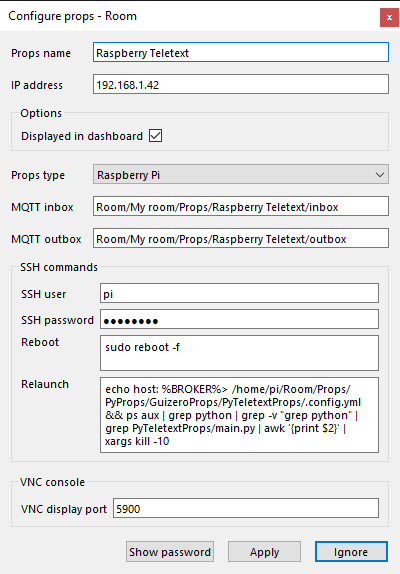
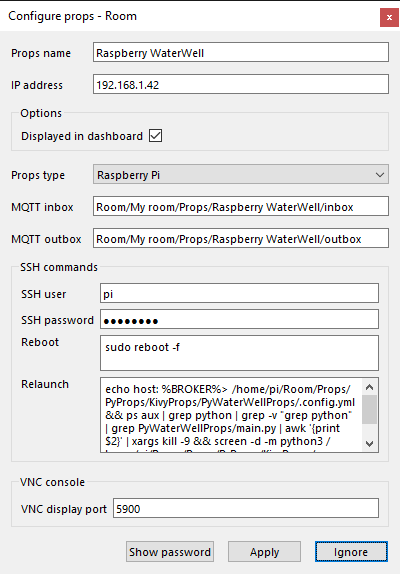
Update PyWaterWellProps

diff --git a/KivyProps/PyWaterWellProps/README.md b/KivyProps/PyWaterWellProps/README.md
@@ -1,6 +1,25 @@
 # Water  Well props (*PyWaterWellProps*)
+***Display messages with graphic effects in the Escape Room with a Raspberry Pi.***
 
-...
+This props listens to MQTT messages and then displays the text on an HDMI display and rings a bell.
+
+Messages are sent by the game master with the [Teletext Plugin](https://github.com/fauresystems/TeletextPlugin) or any application able to publish MQTT messages.
+
+The [Teletext Plugin](https://github.com/fauresystems/TeletextPlugin) can be used as a standalone applet, without the need of <a href="https://xcape.io/go/room" target="_blank">Room software</a>. If you use <a href="https://xcape.io/go/room" target="_blank">Room software</a>, you will find <a href="https://xcape.io/public/documentation/en/room/AddaRaspberrypropsTeletext.html" target="_blank">detailed installation help in the Room manual</a>.
+
+An advanced graphical effect is used to mimic water waves:
+```
+uniform vec2 ref_coords;
+
+vec4 effect(vec4 color, sampler2D texture, vec2 tex_coords, vec2 coords)
+{
+    vec2 distance = 0.025*(coords - ref_coords);
+    //float dist_mag = (distance.x*distance.x + distance.y*distance.y);
+    float dist_mag = (distance.x*distance.x / 4.0+ distance.y*distance.y / 4.0);
+    vec3 multiplier = vec3(abs(sin(dist_mag - time)));
+    return vec4(multiplier * color.xyz, 1.0);
+}
+```
 
 ## Installation
 Install Kivy with the  ([install-kivy.sh](https://github.com/fauresystems/PyProps/blob/master/KivyProps/PyWaterWellProps/install-kivy.sh)) shell script.
@@ -8,7 +27,6 @@ Install Kivy with the  ([install-kivy.sh](https://github.com/fauresystems/PyProp
 ```bash
 pi@raspberrypi:~/Room/Props/PyProps/KivyProps/PyWaterWellProps $ chmod a+x install-kivy.sh 
 pi@raspberrypi:~/Room/Props/PyProps/KivyProps/PyWaterWellProps $ ./install-kivy.sh 
-
 ```
 
 
@@ -24,8 +42,69 @@ $ pip3 install PyYAML
 ```
 
 ## Usage
+Start `main.py` script in `/home/pi/Room/Props/PyProps/KivyProps/PyWaterWellProps`:
 
-...
+```bash
+pi@raspberrypi:~ $ python3 ~/Room/Props/PyProps/KivyProps/PyWaterWellProps/main.py -d
+
+[INFO   ] [Logger      ] Record log in /home/pi/.kivy/logs/kivy_20-04-09_108.txt
+[INFO   ] [Kivy        ] v2.0.0rc1, git-26228b2, 20200408
+[INFO   ] [Kivy        ] Installed at "/usr/local/lib/python3.7/dist-packages/kivy/__init__.py"
+[INFO   ] [Python      ] v3.7.3 (default, Dec 20 2019, 18:57:59) 
+[GCC 8.3.0]
+[INFO   ] [Python      ] Interpreter at "/usr/bin/python3"
+[INFO   ] [Factory     ] 184 symbols loaded
+[DEBUG  ] [Cache       ] register <kv.lang> with limit=None, timeout=None
+[DEBUG  ] [Cache       ] register <kv.image> with limit=None, timeout=60
+[DEBUG  ] [Cache       ] register <kv.atlas> with limit=None, timeout=None
+[INFO   ] [Image       ] Providers: img_tex, img_dds, img_sdl2, img_pil (img_ffpyplayer, img_gif ignored)
+[DEBUG  ] [Cache       ] register <kv.texture> with limit=1000, timeout=60
+[DEBUG  ] [Cache       ] register <kv.shader> with limit=1000, timeout=3600
+[INFO   ] [Text        ] Provider: sdl2
+[INFO   ] [Window      ] Provider: egl_rpi
+[DEBUG  ] [Window      ] Actual display size: 1366x768
+[INFO   ] [GL          ] Using the "OpenGL ES 2" graphics system
+[DEBUG  ] [GL          ] glShaderBinary is not available
+[INFO   ] [GL          ] Backend used <gl>
+[INFO   ] [GL          ] OpenGL version <b'OpenGL ES 2.0'>
+[INFO   ] [GL          ] OpenGL vendor <b'Broadcom'>
+[INFO   ] [GL          ] OpenGL renderer <b'VideoCore IV HW'>
+[INFO   ] [GL          ] OpenGL parsed version: 2, 0
+[INFO   ] [GL          ] Shading version <b'OpenGL ES GLSL ES 1.00'>
+[INFO   ] [GL          ] Texture max size <2048>
+[INFO   ] [GL          ] Texture max units <8>
+[DEBUG  ] [Shader      ] Fragment compiled successfully
+[DEBUG  ] [Shader      ] Vertex compiled successfully
+[DEBUG  ] [ImageSDL2   ] Load </usr/local/lib/python3.7/dist-packages/kivy/data/glsl/default.png>
+[INFO   ] [Window      ] virtual keyboard not allowed, single mode, not docked
+[DEBUG  ] [Audio       ] option <gstplayer> ignored by config
+[DEBUG  ] [Audio       ] option <ffpyplayer> ignored by config
+[DEBUG  ] [Audio       ] register SoundSDL2
+[DEBUG  ] [Audio       ] register MusicSDL2
+[INFO   ] [Audio       ] Providers: audio_sdl2 (audio_gstplayer, audio_ffpyplayer ignored)
+Config: {'host': '192.168.1.42', 'port': 1883}
+INFO - Program connected to MQTT server
+INFO - Program sending message 'CONNECTED' (mid=1) on Room/My room/Props/Raspberry WaterWell/outbox
+INFO - Program subscribing to topic (mid=2) : Room/My room/Props/Raspberry WaterWell/inbox
+DEBUG - MQTT message is published : mid=1 userdata={'host': '192.168.1.42', 'port': 1883}
+INFO - Message published (mid=1)
+DEBUG - MQTT topic is subscribed : mid=2 granted_qos=(1,)
+INFO - Program susbcribed to topic (mid=2) with QoS (1,)
+INFO - Message received : '@PING' in Room/My room/Props/Raspberry WaterWell/inbox
+INFO - Program sending message 'PONG' (mid=3) on Room/My room/Props/Raspberry WaterWell/outbox
+DEBUG - MQTT message is published : mid=3 userdata={'host': '192.168.1.42', 'port': 1883}
+INFO - Message published (mid=3)
+
+```
+
+
+## SSH relaunch command
+The command to relaunch the props is :
+
+```bash
+$ echo host: %BROKER%> /home/pi/Room/Props/PyProps/KivyProps/PyWaterWellProps/.config.yml && ps aux | grep python | grep -v "grep python" | grep PyWaterWellProps/main.py | awk '{print $2}' | xargs kill -9 && screen -d -m python3 /home/pi/Room/Props/PyProps/KivyProps/PyWaterWellProps/main.py
+```
+
 
 ## PyWaterWellProps as a props for <a href="https://xcape.io/" target="_blank">*xcape.io* **Room**</a>
 To use *PyTeletextProps* as a props for <a href="https://xcape.io/" target="_blank">*xcape.io* **Room**</a> software, here are props commands and messages as well as a suggested control panel.
@@ -34,15 +113,11 @@ To use *PyTeletextProps* as a props for <a href="https://xcape.io/" target="_bla
 * `blink:0` : deactivate blinking
 * `blink:1` : activate blinking
 * `display:a message to display on the TV` : display the message
+* `erase` : clear TV screen
 
 
 ### Props configuration
 Add and configure *Raspberry WaterWell* connected props.
-
-The SSH relaunch command for GUI props relies on `signal.SIGUSR1`:
-```bash
-echo host: %BROKER%> /home/pi/Room/Props/PyProps/KivyProps/PyWaterWellProps/.config.yml && ps aux | grep python | grep -v "grep python" | grep PyWaterWellProps/main.py | awk '{print $2}' | xargs kill -10
-```
 
 ![Props configuration](props/props-configuration.png)
 
